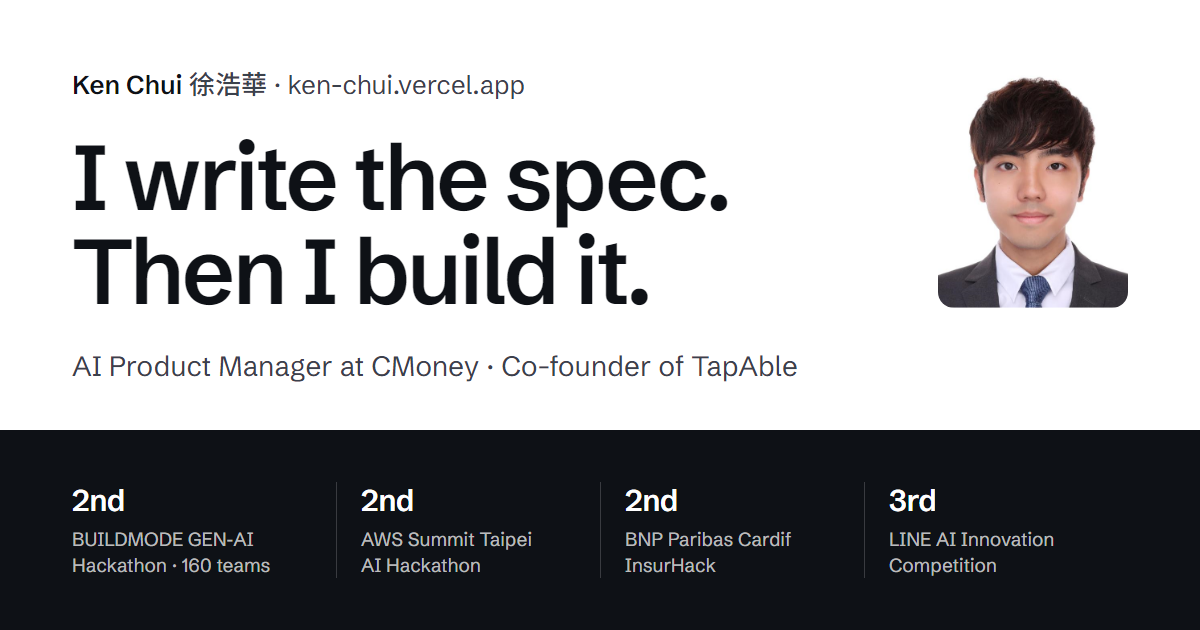
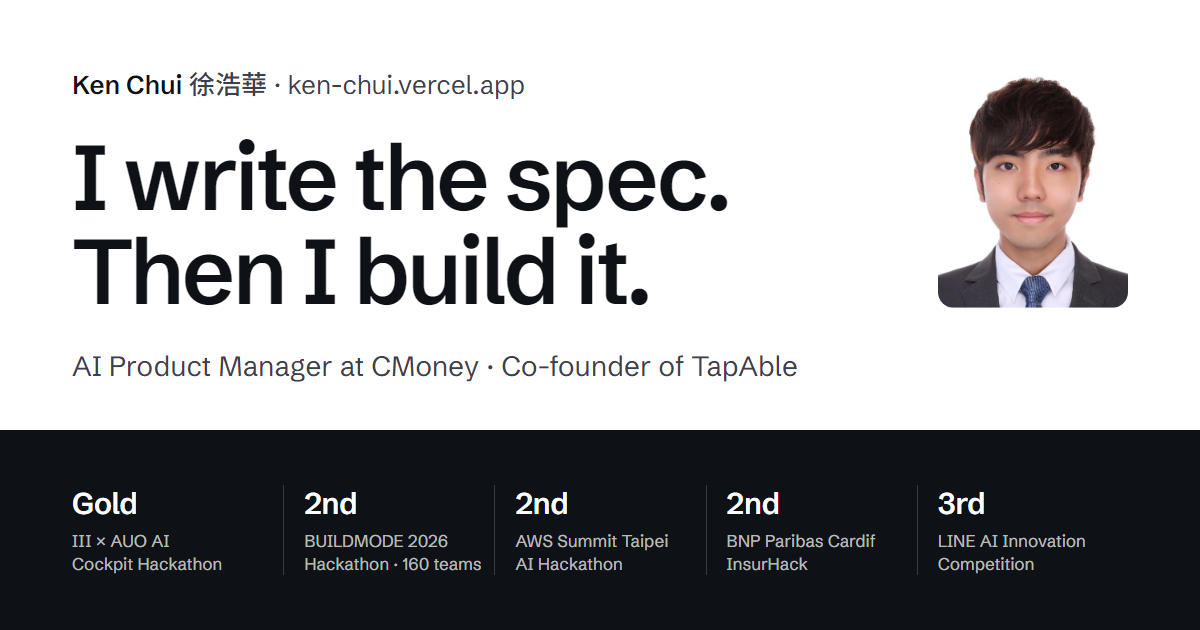
fix: BUILDMODE 名稱照獎狀（拿掉 GEN-AI）；分享預覽圖加金獎、改 5 個獎

diff --git a/src/data/profile.js b/src/data/profile.js
@@ -110,7 +110,7 @@ export const awards = [
   { date: '2026/10', major: true, bandOrder: 1, headline: { zh: 'AI 座艙 Hackathon 金獎', en: 'Gold award, AI Cockpit Hackathon' }, bandWork: { zh: '共創世界窗', en: 'Shared World Window' }, comp: { zh: 'AI 座艙感知與視覺化 Hackathon（資策會 × 友達）', en: 'AI Cockpit Hackathon (III × AUO)' }, result: { zh: '創意組金獎、實作組潛力新星獎', en: 'Gold Award (creative track); Rising Star Award (build track)' }, work: { zh: '共創世界窗、警示找眼睛', en: 'Shared World Window; Eyes-first exit alert' } },
   { tapable: true, date: '2026/10', major: true, bandOrder: 5, headline: { zh: 'LINE AI 創新創業競賽第三名', en: '3rd place, LINE AI competition' }, comp: { zh: 'LINE AI 創新創業競賽', en: 'LINE AI Innovation & Entrepreneurship Competition' }, result: { zh: '第三名', en: '3rd place' }, work: 'TapAble', to: '/projects/tapable-buildmode' },
   { tapable: true, date: '2026/09', comp: { zh: '第六屆台灣尤努斯創新獎', en: '6th Taiwan Yunus Innovation Award' }, result: { zh: '入圍決賽（233 組參賽）', en: 'Finalist (233 entries)' }, work: 'TapAble', to: '/projects/tapable-buildmode' },
-  { tapable: true, date: '2026/09', major: true, bandOrder: 2, headline: { zh: 'BUILDMODE 黑客松第二名', en: '2nd place, BUILDMODE GEN‑AI hackathon' }, note: { zh: '160 隊', en: '160 teams' }, comp: { zh: 'BUILDMODE 2026 GEN-AI 黑客松（FUTUREMODE 台灣未來祭）', en: 'BUILDMODE 2026 GEN-AI Hackathon (FUTUREMODE)' }, result: { zh: '第二名（160 隊）', en: '2nd of 160 teams' }, work: 'TapAble', to: '/projects/tapable-buildmode' },
+  { tapable: true, date: '2026/09', major: true, bandOrder: 2, headline: { zh: 'BUILDMODE 黑客松第二名', en: '2nd place, BUILDMODE hackathon' }, note: { zh: '160 隊', en: '160 teams' }, comp: { zh: 'BUILDMODE 2026 黑客松（FUTUREMODE 台灣未來祭）', en: 'BUILDMODE 2026 Hackathon (FUTUREMODE)' }, result: { zh: '第二名（160 隊）', en: '2nd of 160 teams' }, work: 'TapAble', to: '/projects/tapable-buildmode' },
   { date: '2026/08', comp: { zh: 'AI Monster 未來生存挑戰賽（大專組）', en: 'AI Monster: Future Survival Challenge' }, result: { zh: '第四名', en: '4th place' }, work: { zh: '收藏從未停止，行動從未開始', en: 'Always saving, never doing' } },
   { tapable: true, date: '2026/08', comp: { zh: '第十屆 3S 創客競賽', en: '10th 3S Maker Competition' }, result: { zh: '入圍獎', en: 'Finalist award' }, work: { zh: 'TapAble 導航版', en: 'TapAble, navigation version' }, href: '/yao-3s-demo/index.html' },
   { date: '2026/07', major: true, bandOrder: 3, headline: { zh: 'AWS 黑客松第二名', en: '2nd place, AWS hackathon' }, note: { zh: '數位學習組', en: 'EdTech track' }, comp: { zh: 'AWS Summit Taipei 百工百業瘋 AI 黑客松', en: 'AWS Summit Taipei 2026 AI Hackathon (AI Everywhere)' }, result: { zh: '數位學習組第二名', en: '2nd place, EdTech track' }, work: { zh: 'PressPlay AI 學習助教', en: 'PressPlay AI tutor' }, to: '/projects/ppa-hackathon' },

diff --git a/src/pages/ProjectYao.jsx b/src/pages/ProjectYao.jsx
@@ -176,8 +176,8 @@ export default function ProjectYao() {
           </p>
           <p>
             {t(
-              <>同年 9 月，它在 BUILDMODE GEN-AI 黑客松第一次寫成能跑的程式，<b>160 隊拿下第二名</b>。同一個題目也拿到 3S 創客競賽入圍獎、台灣尤努斯創新獎入圍決賽（233 組取 10）、LINE AI 創新創業競賽第三名，也進了 AIDA 決賽。</>,
-              <>That September it became working code for the first time at the BUILDMODE GEN-AI Hackathon and <b>placed 2nd of 160 teams</b>. It also won a finalist award at the 3S Maker Competition, reached the Taiwan Yunus Innovation Award final (top 10 of 233), took 3rd at the LINE AI Innovation & Entrepreneurship Competition, and reached the AIDA final.</>
+              <>同年 9 月，它在 BUILDMODE 黑客松第一次寫成能跑的程式，<b>160 隊拿下第二名</b>。同一個題目也拿到 3S 創客競賽入圍獎、台灣尤努斯創新獎入圍決賽（233 組取 10）、LINE AI 創新創業競賽第三名，也進了 AIDA 決賽。</>,
+              <>That September it became working code for the first time at the BUILDMODE Hackathon and <b>placed 2nd of 160 teams</b>. It also won a finalist award at the 3S Maker Competition, reached the Taiwan Yunus Innovation Award final (top 10 of 233), took 3rd at the LINE AI Innovation & Entrepreneurship Competition, and reached the AIDA final.</>
             )}
           </p>
         </Prose>

diff --git a/src/pages/ProjectTapAble.jsx b/src/pages/ProjectTapAble.jsx
@@ -91,7 +91,7 @@ export default function ProjectTapAble() {
     },
     {
       date: '2026/09',
-      comp: t('BUILDMODE 2026 GEN-AI 黑客松', 'BUILDMODE 2026 GEN-AI Hackathon'),
+      comp: t('BUILDMODE 2026 黑客松', 'BUILDMODE 2026 Hackathon'),
       result: t('160 隊第二名', '2nd of 160 teams'),
       what: t('第一次寫成能跑的程式，也就是這一頁的版本。', 'The first working code. This is the version on this page.'),
     },
